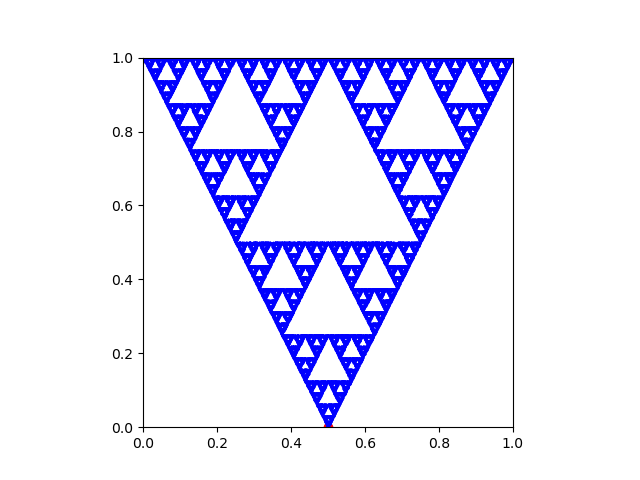
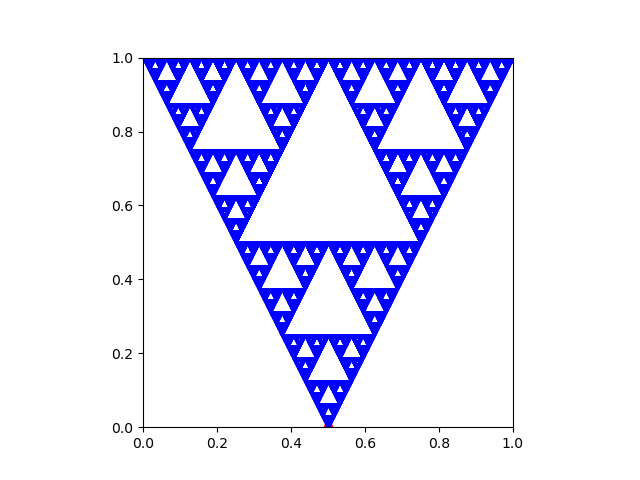
README.md

diff --git a/prac1/Sierpinksi-Triangle/part3.py b/prac1/Sierpinksi-Triangle/part3.py
@@ -10,7 +10,7 @@ points = torch.tensor([[0.5, 0], [1, 1], [0, 1]], device=device)
 point = torch.tensor([0.5, 0.5], device=device)  # Initial point
 
 # Number of iterations
-num_iterations = 100000
+num_iterations = 1000000
 
 # Initialize arrays to store x and y coordinates
 x_coords = torch.empty(num_iterations, device=device)

diff --git a/prac1/Sierpinksi-Triangle/README.md b/prac1/Sierpinksi-Triangle/README.md
@@ -2,11 +2,21 @@
 
 "The Sierpiński triangle (sometimes spelled Sierpinski), also called the Sierpiński gasket or Sierpiński sieve, is a fractal attractive fixed set with the overall shape of an equilateral triangle, subdivided recursively into smaller equilateral triangles. Originally constructed as a curve, this is one of the basic examples of self-similar sets—that is, it is a mathematically generated pattern that is reproducible at any magnification or reduction. It is named after the Polish mathematician Wacław Sierpiński, but appeared as a decorative pattern many centuries before the work of Sierpiński." - [Sierpinski Triangle Wiki](https://en.wikipedia.org/wiki/Sierpi%C5%84ski_triangle)
 
-
-## Wiki Produced Fractal
 <p align="center">
   <img src="fractal-wiki.png" />
 </p>
 
+# Construction
+* Pytorch Tensors are used to form a coordinate map of the fractal
+* There are 1,000,000 iterations to form the fractal
+## Iteration Process
+1. Vertex of triangle chosen at random
+2. Midpoint calaculated between initial point and chosen vertex
+3. Midpoint stored into position tensor
+4. Initial point is updated to be midpoint
+5. Repeat
 
-
+# Result
+<p align="center">
+  <img src="Sierpinski-Triangle.png" />
+</p>

diff --git a/README.md b/README.md
@@ -1,2 +1,2 @@
 # comp3710
-COMP3710 - Pattern Recognition and Analysis
+This repository outlines my lab activities and progress through Semester 2 2023 in COMP3710.
